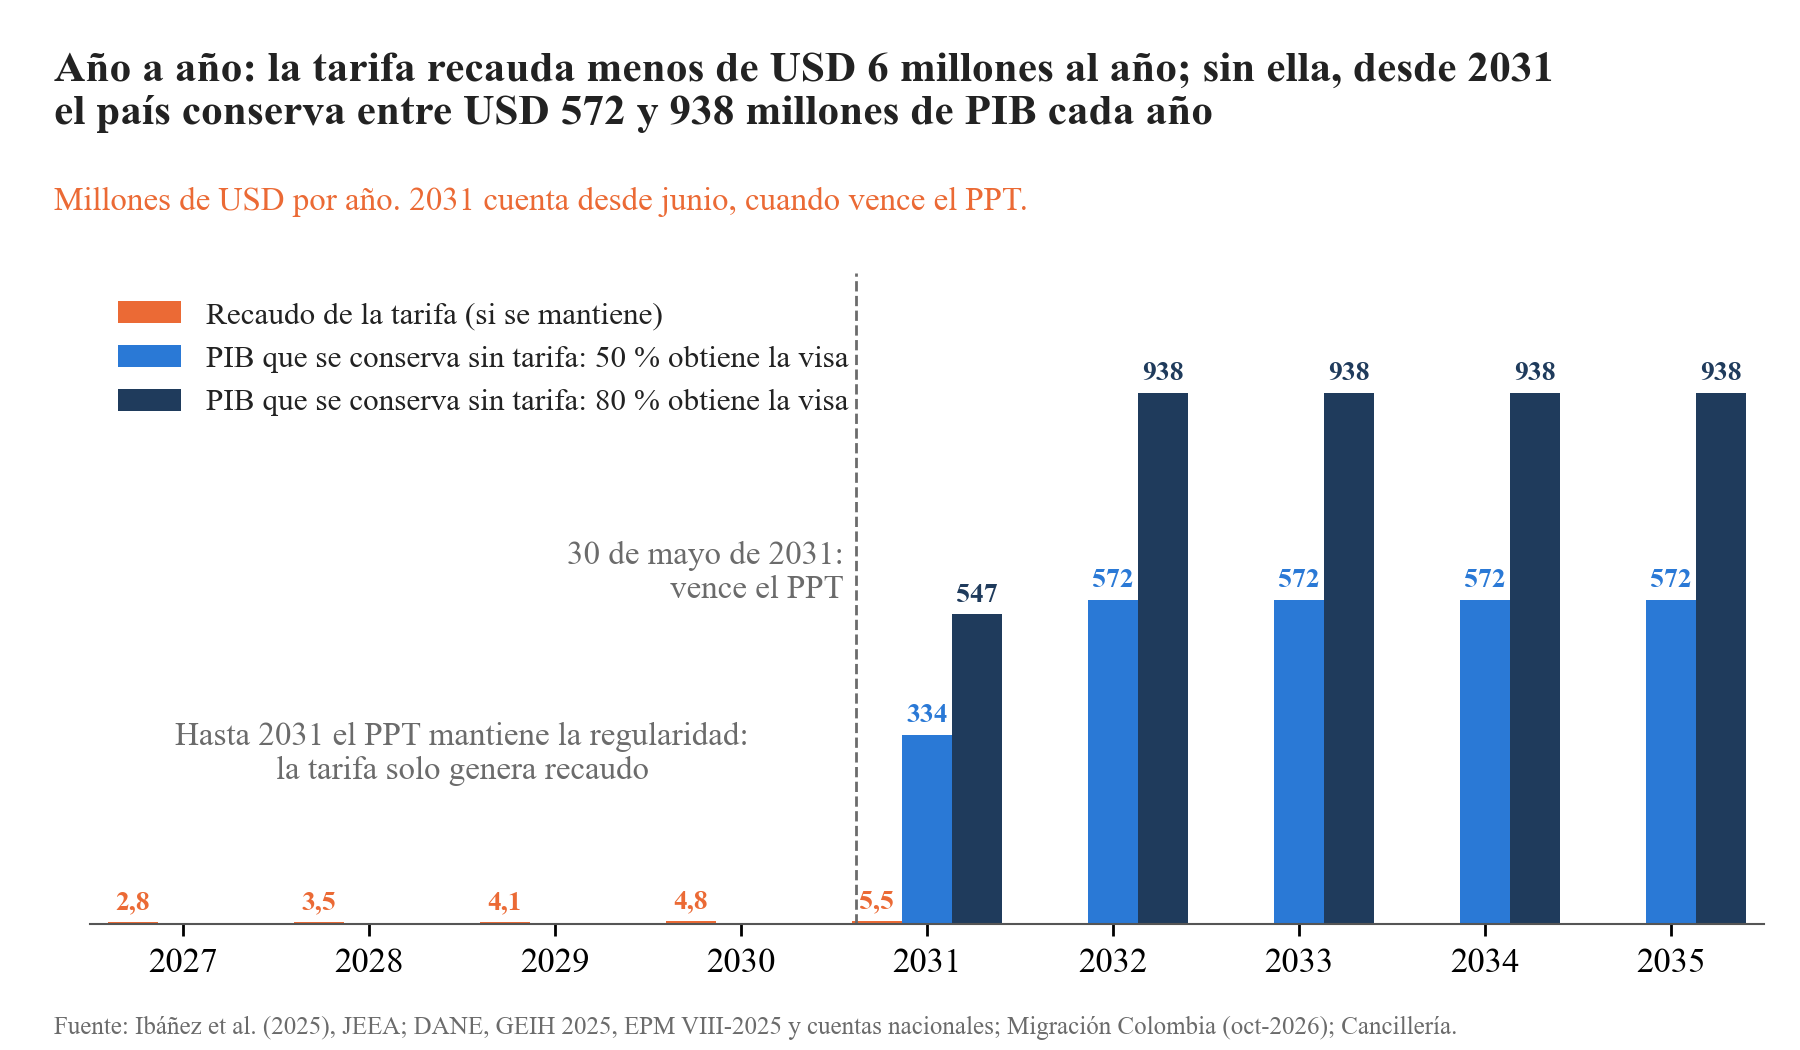
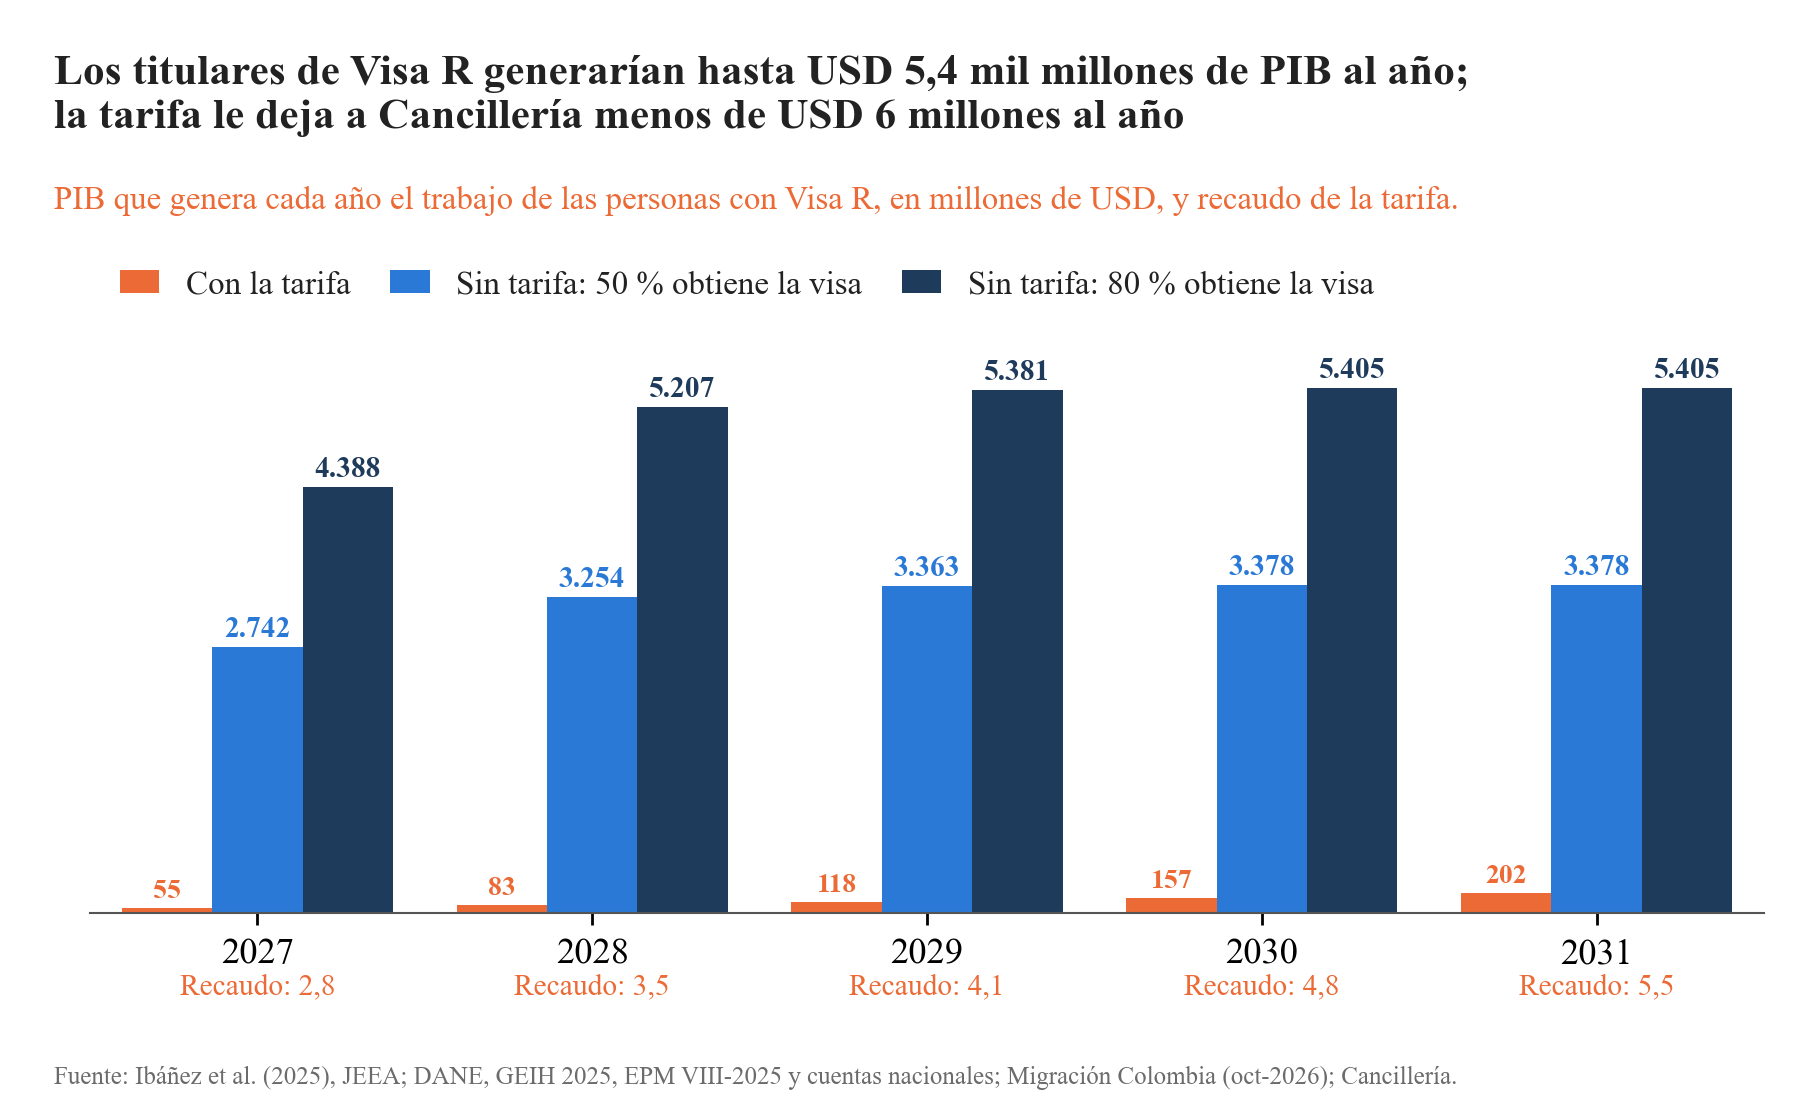
Grafico anio a anio: PIB que generan los titulares de Visa R frente al recaudo

diff --git a/Code/27_graficos_hilo.py b/Code/27_graficos_hilo.py
@@ -145,33 +145,34 @@ fig.text(0.04, 0.95, "Mantener regulares a los venezolanos sostiene la economía
 fig.text(0.04, 0.012, FUENTE, fontsize=7.4, color=GRAY, ha="left")
 fig.savefig(FIG / "pr13_historia_completa.png", dpi=250, facecolor="white"); plt.close(fig)
 
-# =============================================================== E. año a año: recaudo de la tarifa frente al PIB que conserva la gratuidad
-anios = np.arange(2027, 2036)
-visas_tend = {2027: 5_984, 2028: 7_450, 2029: 8_916, 2030: 10_382, 2031: 11_848}      # tendencia lineal (Excel del equipo); suma 44.580
-rec = np.array([visas_tend.get(a, 0) * 464 / 1e6 for a in anios])
-frac = np.array([0 if a < 2031 else (7 / 12 if a == 2031 else 1) for a in anios])      # el PPT vence el 30-may-2031
-b50 = frac * esc["50 %"] * pib_pp / 1e6; b80 = frac * esc["80 %"] * pib_pp / 1e6
-pd.DataFrame({"anio": anios, "recaudo_tarifa_USD_M": rec, "PIB_conservado_50_USD_M": b50, "PIB_conservado_80_USD_M": b80}).round(1).to_csv(TAB / "t27_anio_a_anio.csv", index=False)
-fig, ax = plt.subplots(figsize=(7.2, 4.2)); fig.subplots_adjust(left=0.05, right=0.98, top=0.74, bottom=0.12)
+# =============================================================== E. año a año: lo que aportan a la economía los titulares de Visa R
+anios = np.arange(2027, 2032)
+ELIG = {2027: 0.8118, 2028: 0.9634, 2029: 0.9956, 2030: 1.0, 2031: 1.0}           # EPM: titulares que ya cumplen 5 años (acumulado)
+visas_tend = {2027: 5_984, 2028: 7_450, 2029: 8_916, 2030: 10_382, 2031: 11_848}  # tendencia con la tarifa (Excel del equipo)
+tit_tarifa = 8_440 + np.cumsum([visas_tend[a] for a in anios])
+tit = {k: np.array([t * BASE * ELIG[a] for a in anios]) for k, t in [("50 %", 0.5), ("80 %", 0.8)]}
+va_pp = usd(ing_reg / SH_LAB)                                                       # PIB que genera al año una persona regular (USD)
+rec = np.array([visas_tend[a] * 464 / 1e6 for a in anios])
+pib_t = tit_tarifa * va_pp / 1e6; pib50 = tit["50 %"] * va_pp / 1e6; pib80 = tit["80 %"] * va_pp / 1e6
+pd.DataFrame({"anio": anios, "titulares_visa_tarifa": tit_tarifa, "titulares_visa_50": tit["50 %"].round(), "titulares_visa_80": tit["80 %"].round(),
+              "PIB_titulares_tarifa_USD_M": pib_t, "PIB_titulares_50_USD_M": pib50, "PIB_titulares_80_USD_M": pib80, "recaudo_tarifa_USD_M": rec}).round(1).to_csv(TAB / "t27_anio_a_anio.csv", index=False)
+fig, ax = plt.subplots(figsize=(7.2, 4.4)); fig.subplots_adjust(left=0.05, right=0.98, top=0.7, bottom=0.17)
 w = 0.27
-ax.bar(anios - w, rec, w, color=ORANGE, label="Recaudo de la tarifa (si se mantiene)")
-ax.bar(anios, b50, w, color=BLUE, label="PIB que se conserva sin tarifa: 50 % obtiene la visa")
-ax.bar(anios + w, b80, w, color=NAVY, label="PIB que se conserva sin tarifa: 80 % obtiene la visa")
-for a, r_, x50, x80 in zip(anios, rec, b50, b80):
-    if r_ > 0:
-        ax.text(a - w, r_ + 12, f"{pc(r_, 1)}", ha="center", va="bottom", fontsize=8, color=ORANGE, fontweight="bold")
-    if x50 > 0:
-        ax.text(a, x50 + 12, f"{miles(x50)}", ha="center", va="bottom", fontsize=8, color=BLUE, fontweight="bold")
-        ax.text(a + w, x80 + 12, f"{miles(x80)}", ha="center", va="bottom", fontsize=8, color=NAVY, fontweight="bold")
-ax.axvline(2030.62, color=GRAY, lw=0.8, ls="--")
-ax.text(2030.55, 620, "30 de mayo de 2031:" + NL + "vence el PPT", ha="right", va="center", fontsize=9.5, color=GRAY)
-ax.text(2028.5, 300, "Hasta 2031 el PPT mantiene la regularidad:" + NL + "la tarifa solo genera recaudo", ha="center", va="center", fontsize=9.5, color=GRAY)
-ax.set_xticks(anios); ax.set_xticklabels([str(a) for a in anios], fontsize=10)
-ax.set_yticks([]); ax.spines["left"].set_visible(False); ax.set_ylim(0, 1150); ax.set_xlim(2026.5, 2035.5)
-ax.legend(loc="upper left", bbox_to_anchor=(0.0, 1.0), ncol=1, frameon=False, fontsize=9)
-fig.text(0.03, 0.95, "Año a año: la tarifa recauda menos de USD 6 millones al año; sin ella, desde 2031" + NL +
-         f"el país conserva entre USD {miles(esc['50 %'] * pib_pp / 1e6)} y {miles(esc['80 %'] * pib_pp / 1e6)} millones de PIB cada año",
-         fontsize=12.5, fontweight="bold", ha="left", va="top")
-fig.text(0.03, 0.8, "Millones de USD por año. 2031 cuenta desde junio, cuando vence el PPT.", fontsize=9.5, ha="left", color=ORANGE)
+ax.bar(anios - w, pib_t, w, color=ORANGE, label="Con la tarifa")
+ax.bar(anios, pib50, w, color=BLUE, label="Sin tarifa: 50 % obtiene la visa")
+ax.bar(anios + w, pib80, w, color=NAVY, label="Sin tarifa: 80 % obtiene la visa")
+lab_bn = lambda v: miles(v)
+for a, t_, x50, x80, r_ in zip(anios, pib_t, pib50, pib80, rec):
+    ax.text(a - w, t_ + 40, f"{miles(t_)}", ha="center", va="bottom", fontsize=8, color=ORANGE, fontweight="bold")
+    ax.text(a, x50 + 40, lab_bn(x50), ha="center", va="bottom", fontsize=8.5, color=BLUE, fontweight="bold")
+    ax.text(a + w, x80 + 40, lab_bn(x80), ha="center", va="bottom", fontsize=8.5, color=NAVY, fontweight="bold")
+    ax.text(a, -620, f"Recaudo: {pc(r_, 1)}", ha="center", va="top", fontsize=8.5, color=ORANGE)
+ax.set_xticks(anios); ax.set_xticklabels([str(a) for a in anios], fontsize=10.5)
+ax.set_yticks([]); ax.spines["left"].set_visible(False); ax.set_ylim(0, 6000); ax.set_xlim(2026.5, 2031.5)
+ax.legend(loc="lower left", bbox_to_anchor=(0.0, 1.0), ncol=3, frameon=False, fontsize=9.5, handlelength=1.2, columnspacing=1.2)
+fig.text(0.03, 0.95, f"Los titulares de Visa R generarían hasta USD {pc(pib80[-1] / 1e3, 1)} mil millones de PIB al año;" + NL +
+         "la tarifa le deja a Cancillería menos de USD 6 millones al año", fontsize=12.5, fontweight="bold", ha="left", va="top")
+fig.text(0.03, 0.81, "PIB que genera cada año el trabajo de las personas con Visa R, en millones de USD, y recaudo de la tarifa.", fontsize=9.5, ha="left", color=ORANGE)
 fig.text(0.03, 0.015, FUENTE, fontsize=7.2, color=GRAY, ha="left")
 fig.savefig(FIG / "pr14_anio_a_anio.png", dpi=250, facecolor="white"); plt.close(fig)
+print("va_pp", round(va_pp), "pib80 2031", round(pib80[-1]), "pib50", pib50.round(), "tarifa", pib_t.round(), "titulares 80", tit["80 %"].round())
